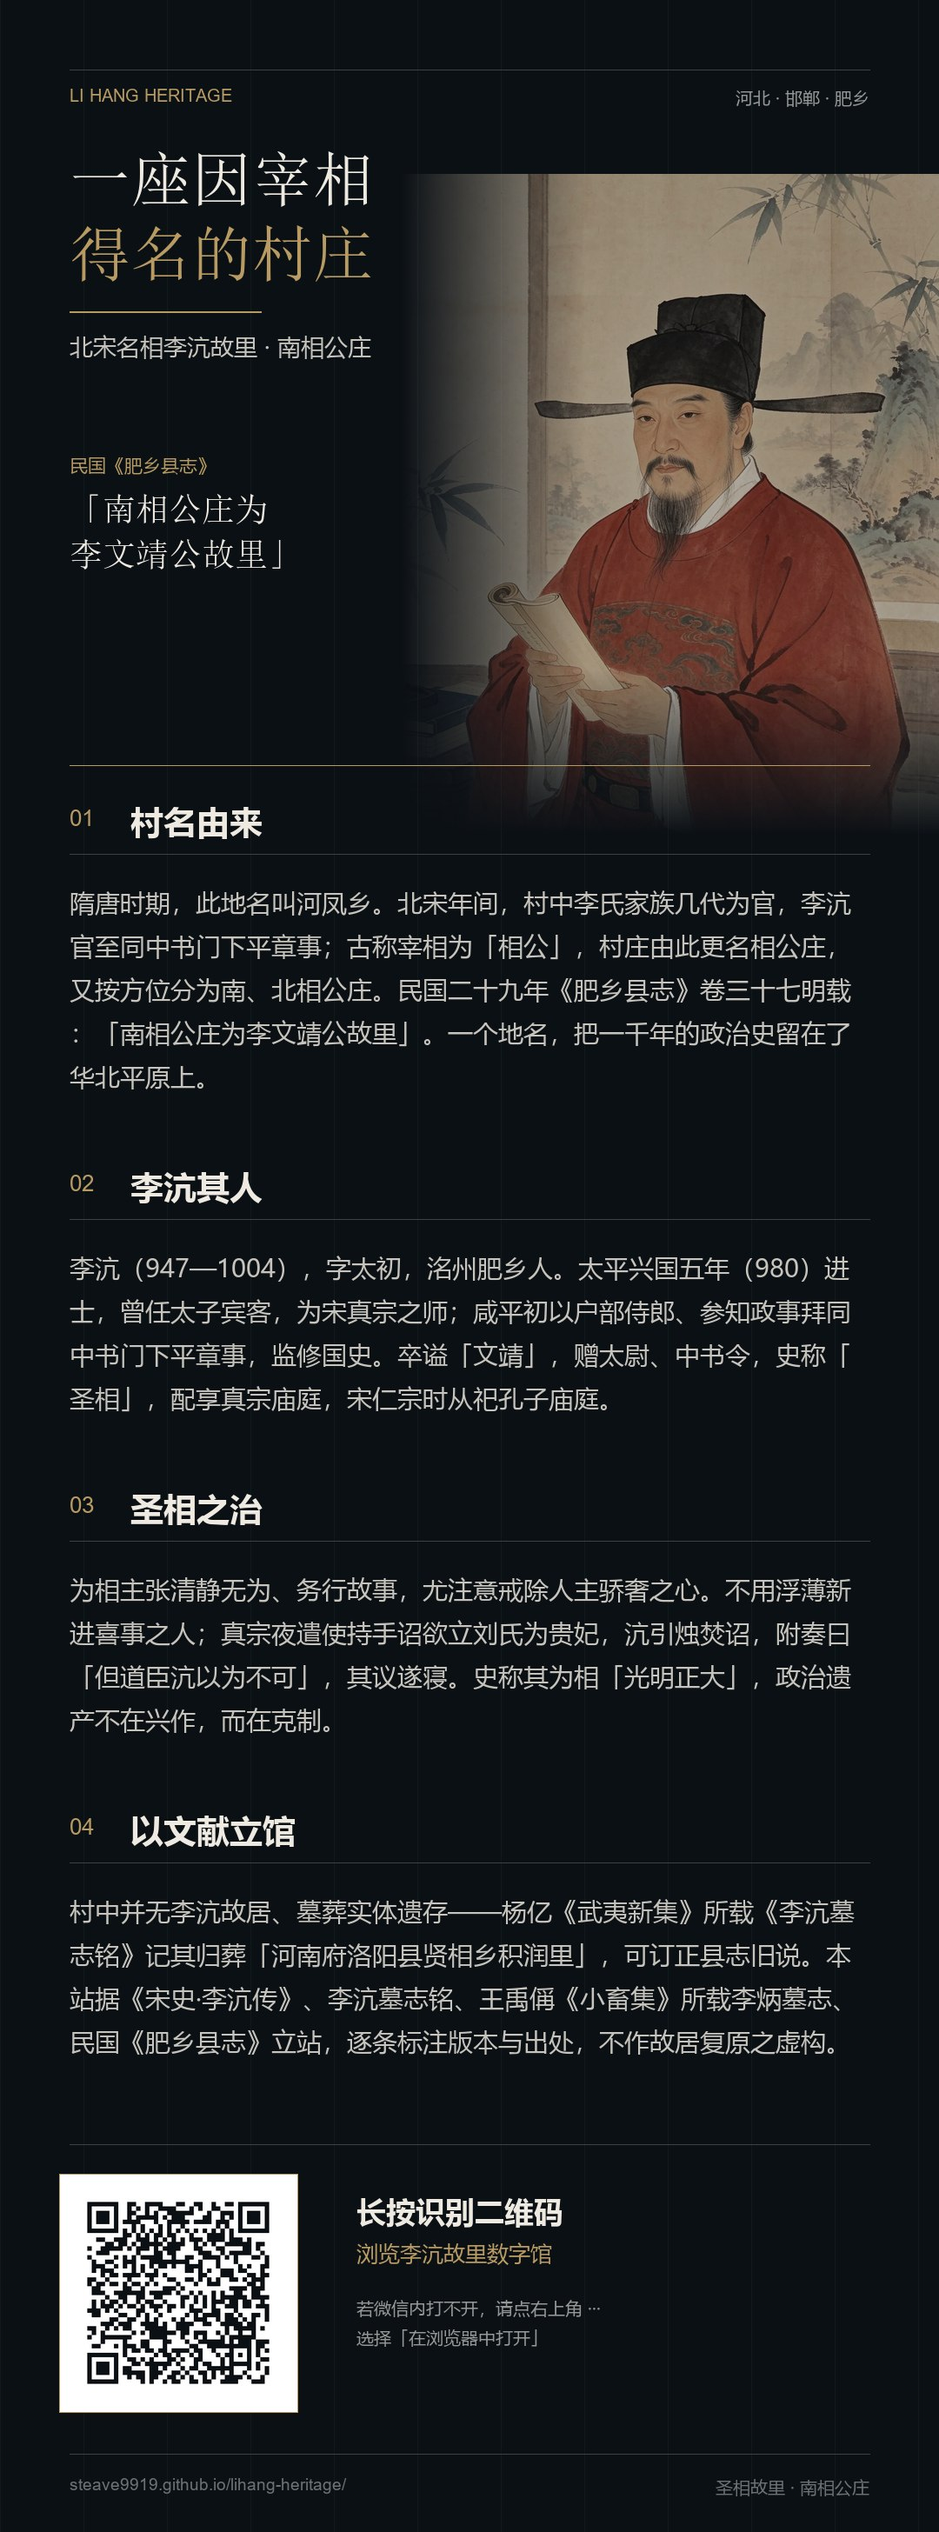
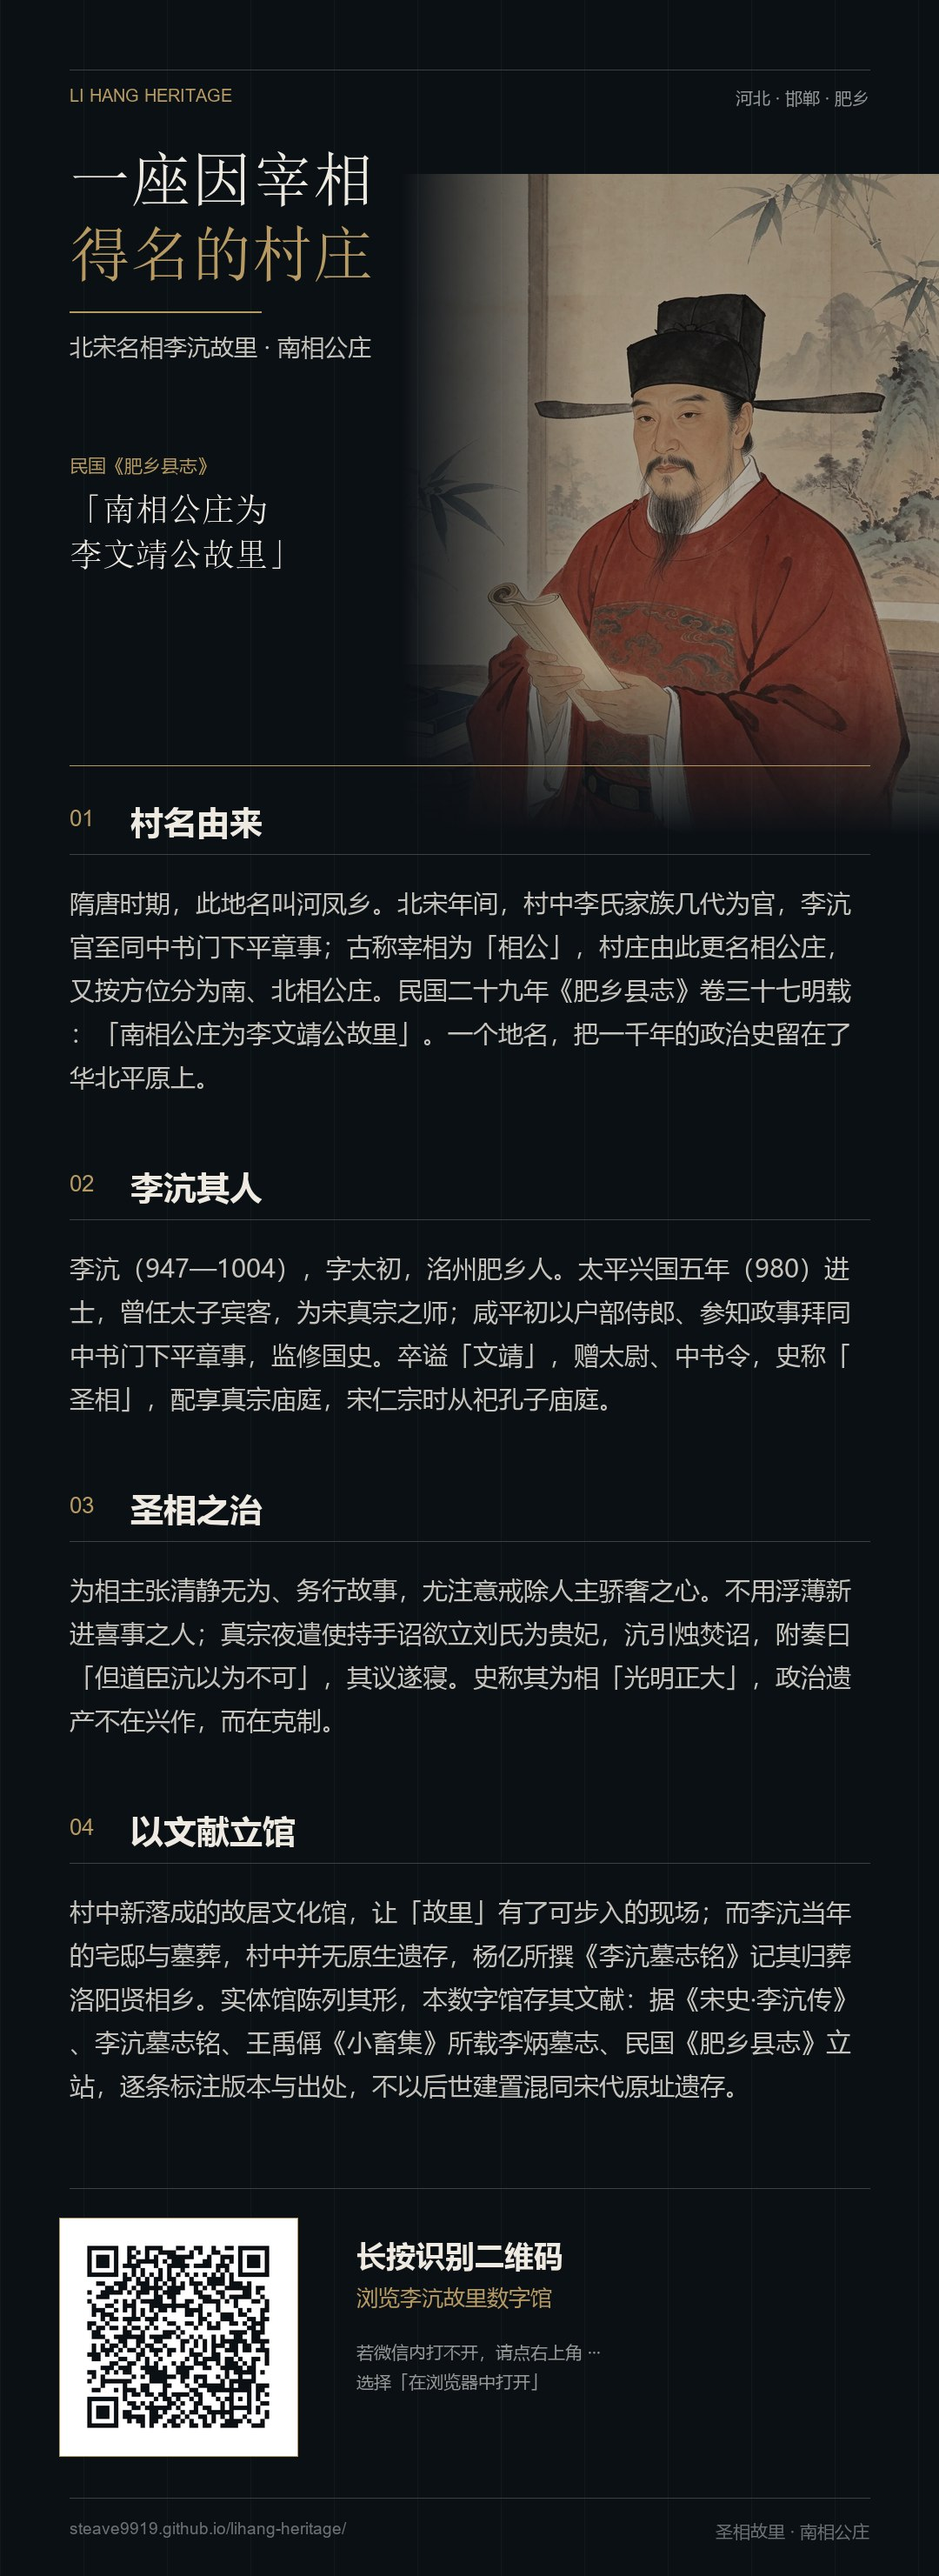
fix: 村里故居文化馆已落成，同步修订「以文献立馆」等表述
章节导语改为实体馆与数字馆两相参证；今日相公庄补记文化馆落成；页脚改为不以后世建置混同宋代原址遗存；中英文案与分享长图 04 章同步重生成。墓葬归葬洛阳的考据口径不变。

diff --git a/index.html b/index.html
@@ -524,7 +524,7 @@ html[lang="en"] .en-only{display:block!important}
       <div class="chapter-index">04 / THE ARCHIVE<em>文献典藏</em></div>
       <div>
         <h2 data-en="A heritage built on texts">以文献立馆</h2>
-        <p class="chapter-lead" data-en="No residence or tomb of Li Hang survives in the village. What survives is the record: the official history, two funerary inscriptions recovered from Song collectanea, and the county gazetteer. This archive is the collection.">村中并无李沆故居、墓葬实体遗存，真正可传的是文献本身。本站把底本逐一标注版本与出处，原文保留中文，逐条附注释与白话对照——这是全站最硬的一块，也是「故里」二字最可靠的凭据。</p>
+        <p class="chapter-lead" data-en="The newly completed Li Hang Memorial Hall gives this hometown a place one can walk into. No original fabric of his Song-dynasty residence or tomb survives in the village: Yang Yi's funerary inscription records his burial at Xianxiang, Luoyang. The hall presents the visible form; this digital archive keeps the record. Each source is cited by edition and origin, with the Chinese original, annotations and a plain-language rendering. Together they are the surest warrant for the word hometown.">村中新落成的故居文化馆，让「故里」有了可步入的现场；而李沆当年的宅邸与墓葬，村中并无原生遗存，杨亿所撰《李沆墓志铭》且记其归葬洛阳贤相乡。实体馆陈列其形，本数字馆存其文献：底本逐一标注版本与出处，原文保留中文，逐条附注释与白话对照——两相参证，方是「故里」最可靠的凭据。</p>
       </div>
     </div>
 
@@ -566,7 +566,7 @@ html[lang="en"] .en-only{display:block!important}
       <div class="chapter-index">05 / TODAY<em>今日相公庄</em></div>
       <div>
         <h2 data-en="A thousand years, still lived">千年之后，村庄仍在生长</h2>
-        <p class="chapter-lead" data-en="Feixiang District has identified the village as Li Hang's hometown and has been developing his cultural legacy since 2017. The digital hall is both a public record and an open invitation to contribute.">2017 年肥乡区农工委在公开答复中明确「大寺上镇南相公庄村也是宋代名相李沆的故里」，并正在美丽乡村建设中挖掘李沆文化元素。数字馆既是一份公开记录，也是一份征集启事。</p>
+        <p class="chapter-lead" data-en="In a 2017 public reply, Feixiang District confirmed Nanxianggongzhuang as the hometown of Li Hang and began developing his cultural legacy. The newly completed memorial hall now gives that thousand-year-old name a physical home; this digital archive stands alongside it as a public record and an open invitation to contribute.">2017 年肥乡区农工委在公开答复中明确「大寺上镇南相公庄村也是宋代名相李沆的故里」，并在美丽乡村建设中挖掘李沆文化元素。如今村中故居文化馆已落成，千年的名字有了实体落脚处；本数字馆与之相参，既是一份公开记录，也是一份征集启事。</p>
       </div>
     </div>
 
@@ -602,7 +602,7 @@ html[lang="en"] .en-only{display:block!important}
     <div>
       <h4>关于本站 / ABOUT</h4>
       <p>圣相故里 · 南相公庄数字馆（首页设计原型）</p>
-      <p>以人物思想与原始文献立站，不作故居复原之虚构。</p>
+      <p>以人物思想与原始文献立站，与村中新建故居文化馆互补；不以后世建置混同宋代原址遗存。</p>
       <p class="en-only" style="color:var(--gold)">Design prototype. Historical claims follow official publications and primary sources.</p>
     </div>
     <div>

diff --git a/tools/make_share.py b/tools/make_share.py
@@ -225,10 +225,11 @@ SECTIONS = [
      '附奏曰「但道臣沆以为不可」，其议遂寝。史称其为相「光明正大」，'
      '政治遗产不在兴作，而在克制。'),
     ('04', '以文献立馆',
-     '村中并无李沆故居、墓葬实体遗存——杨亿《武夷新集》所载《李沆墓志铭》'
-     '记其归葬「河南府洛阳县贤相乡积润里」，可订正县志旧说。'
-     '本站据《宋史·李沆传》、李沆墓志铭、王禹偁《小畜集》所载李炳墓志、'
-     '民国《肥乡县志》立站，逐条标注版本与出处，不作故居复原之虚构。'),
+     '村中新落成的故居文化馆，让「故里」有了可步入的现场；而李沆当年的宅邸与墓葬，'
+     '村中并无原生遗存，杨亿所撰《李沆墓志铭》记其归葬洛阳贤相乡。'
+     '实体馆陈列其形，本数字馆存其文献：据《宋史·李沆传》、李沆墓志铭、'
+     '王禹偁《小畜集》所载李炳墓志、民国《肥乡县志》立站，逐条标注版本与出处，'
+     '不以后世建置混同宋代原址遗存。'),
 ]
 
 
